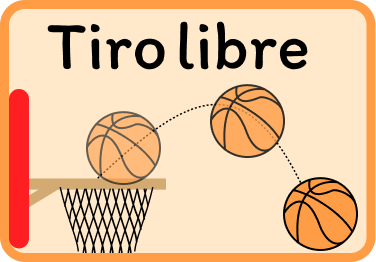
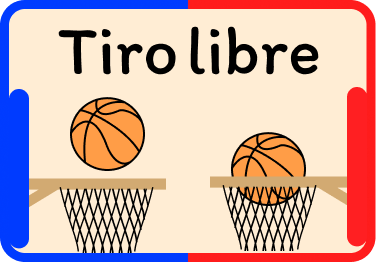
muchas cosasss. pude hacer que el buscador fuuncione x fin (gracias clase de front). portadas re cuteeeee.

diff --git a/comenzar/comenzar.js b/comenzar/comenzar.js
@@ -2,16 +2,11 @@ let jugadorSeleccionado1 = null;
 let jugadorSeleccionado2 = null;
 
 
-
-
 document.querySelectorAll(".btn-cerrar-popup").forEach(boton => {
     boton.addEventListener("click", () => {
         boton.closest("#elegir-usuarios, #CrearUsuario1, #CrearUsuario2, #Tutorial, #video-tutorial, #IDUsuario").style.display = "none";
     });
 });
-
-
-
 
 document.querySelectorAll("#btn-cerrar-popup-usuarios-jugadores, #btn-cerrar-popup-tutorial, #btn-cerrar-popup-video-tutorial").forEach(boton => {
     boton.addEventListener("click", () => {
@@ -22,7 +17,6 @@ document.querySelectorAll("#btn-cerrar-popup-usuarios-jugadores, #btn-cerrar-pop
     });
 });
 
-
 document.querySelectorAll("#btn-cerrar-popup-usuario1, #btn-cerrar-popup-usuario2").forEach(boton => {
     boton.addEventListener("click", () => {
         document.getElementById("elegir-usuarios").style.display = "flex";
@@ -30,7 +24,6 @@ document.querySelectorAll("#btn-cerrar-popup-usuario1, #btn-cerrar-popup-usuario
         document.getElementById("CrearUsuario2").style.display = "none";
     });
 });
-
 
 document.getElementById("btn-cerrar-popup-id-usuario").addEventListener("click", () => {
     document.getElementById("IDUsuario").style.display = "none";
@@ -40,7 +33,6 @@ document.getElementById("btn-cerrar-popup-id-usuario").addEventListener("click",
 
 
 });
-
 
 document.getElementById("btn-sin-cuenta").addEventListener("click", () => {
 
@@ -62,20 +54,13 @@ document.getElementById("btn-sin-cuenta").addEventListener("click", () => {
 
 document.getElementById("btn-con-cuenta").addEventListener("click", () => {
 
-
     document.getElementById("elegir-usuarios").style.display = "flex";
     document.getElementById("contenedor-comenzar").style.display = "none";
 
-
     document.getElementById("conejo-colgando").style.display = "none";
 
-
     document.querySelectorAll('.jugador-item').forEach(function (elemento) {
-        elemento.classList.remove('seleccionado');
-
-
-    });
-
+        elemento.classList.remove('seleccionado');    });
 
     jugadorSeleccionado1 = null
     jugadorSeleccionado2 = null
@@ -125,42 +110,31 @@ document.getElementById("btnCrearJugador2").addEventListener("click", () => {
 document.querySelectorAll("#btn-jugar1, #btn-jugar2").forEach(boton => {
     boton.addEventListener("click", () => {
 
-
         let nombreIngresado;
         let IDIngresado;
-
 
         if (boton.id === "btn-jugar1") {
             nombreIngresado = document.getElementById("nombre-usuario-jugador1");
             IDIngresado = document.getElementById("ID-usuario-jugador1");
 
-
         }
-
 
         else {
             nombreIngresado = document.getElementById("nombre-usuario-jugador2");
             IDIngresado = document.getElementById("ID-usuario-jugador2");
 
-
         }
-
 
         const nombre = nombreIngresado.value.trim();
         const idUsuario = IDIngresado.value.trim();
-
 
         nombreIngresado.classList.remove("input-error");
         IDIngresado.classList.remove("input-error");
 
 
 
-
-
-
         if (nombre === "") {
             nombreIngresado.classList.add("input-error");
-
 
             if (boton.id === "btn-jugar1") {
                 document.getElementById("completar-nombre-usuario1").classList.add("visible");
@@ -170,9 +144,6 @@ document.querySelectorAll("#btn-jugar1, #btn-jugar2").forEach(boton => {
                 document.getElementById("completar-nombre-usuario2").classList.add("visible");
                 document.getElementById("completar-nombre-usuario1").classList.remove("visible");
             }
-
-
-
 
         }
 
@@ -190,14 +161,11 @@ document.querySelectorAll("#btn-jugar1, #btn-jugar2").forEach(boton => {
                 document.getElementById("completar-id-usuario1").classList.remove("visible");
             }
 
-
         }
-
 
         if (nombre === "" || idUsuario === "") {
             return;
         }
-
 
         document.getElementById("elegir-usuarios").style.display = "flex";
         document.getElementById("CrearUsuario1").style.display = "none";
@@ -218,12 +186,12 @@ document.querySelectorAll("#btn-jugar1, #btn-jugar2").forEach(boton => {
             jugoCon: "---",
             id: idUsuario,
             animal: animal,
-            color: color
+            color: color,
+            progreso: [],
+            actividad: []
         });
 
         guardarJugadores();
-
-
 
 
         if (boton.id === "btn-jugar1") {
@@ -254,9 +222,6 @@ function limpiarErrorCompletarNombre() {
 document.getElementById("nombre-usuario-jugador1").addEventListener("input", limpiarErrorCompletarNombre);
 document.getElementById("nombre-usuario-jugador2").addEventListener("input", limpiarErrorCompletarNombre);
 
-
-
-
 function limpiarErrorCompletarID() {
     document.getElementById("ID-usuario-jugador1").classList.remove("input-error");
     document.getElementById("ID-usuario-jugador2").classList.remove("input-error");
@@ -271,24 +236,12 @@ document.getElementById("ID-usuario-jugador1").addEventListener("input", limpiar
 document.getElementById("ID-usuario-jugador2").addEventListener("input", limpiarErrorCompletarID);
 
 
-
-
-
-
 document.getElementById("listos-para-tutorial").addEventListener("click", () => {
     document.getElementById("video-tutorial").style.display = "flex";
 
-
     document.getElementById("Tutorial").style.display = "none";
 
-
 });;
-
-
-
-
-
-
 
 
 let jugadorProceso = null;
@@ -310,9 +263,6 @@ function mostrarJugadores() {
 
 
     jugadores.forEach(jugador => {
-
-
-
 
         const elemento1 = document.createElement("div");
 

diff --git a/cuadricula/cuadricula.html b/cuadricula/cuadricula.html
@@ -30,11 +30,11 @@
             </svg>
         </a>
 
-        <h1 id="TituloJuegos">Juegos </h1>
+        <h1 id="TituloJuegos">Juegos</h1>
 
         <div class="grilla">
             <a class="juego-card" data-juego="Juego1" tabindex="0" href="../juegos/juego1/juego1.html">
-                <span class="juego-nombre">Burbujas</span>
+                <img src="../assets/portadas/burbujero.png" alt="Juego 1">
             </a>
 
             <a class="juego-card" data-juego="Juego2" tabindex="0" href="../juegos/juego2/juego2.html">
@@ -59,7 +59,7 @@
             </a>
 
             <a class="juego-card" data-juego="Juego7" tabindex="0" href="../juegos/juego7/juego7.html">
-                <img src="../assets/portadas/splash.png" alt="Juego 8">
+                <img src="../assets/portadas/splash.png" alt="Juego 7">
 
             </a>
 

diff --git a/terapeutas/terapeutas.js b/terapeutas/terapeutas.js
@@ -59,6 +59,20 @@ jugadores.forEach(jugador => {
     listaInformes.appendChild(elemento);
 });
 
+const buscador = document.getElementById("buscar-usuario");
+
+buscador.addEventListener("input", () => {
+    const texto = buscador.value.trim().toLowerCase();
+
+    const tarjetas = listaInformes.querySelectorAll(".usuario-item");
+
+    tarjetas.forEach(tarjeta => {
+        const nombre = tarjeta.querySelector(".nombre-usuario").textContent.trim().toLowerCase();
+    
+        tarjeta.style.display = nombre.includes(texto) ? "" : "none";
+    });
+});
+
 let graficoProgreso = null;
 
 function mostrarInforme(jugador) {

diff --git a/cuadricula/cuadricula.css b/cuadricula/cuadricula.css
@@ -15,7 +15,7 @@
 
  .grilla {
      display: grid;
-     grid-template-columns: repeat(3, minmax(0, 1fr));
+     grid-template-columns: repeat(2, minmax(0, 1fr));
      gap: clamp(16px, 4vw, 24px);
      width: min(90%, 1000px);
      margin: 0 auto;

diff --git a/terapeutas/terapeutas.html b/terapeutas/terapeutas.html
@@ -31,7 +31,6 @@
                 </svg>
             </a>
 
-
             <div id="contenedor-usuario-terapeuta">
                 <img id="icono-terapeutas" src="../assets/arriba-popups/icono-terapeutas.png">
 

diff --git a/terapeutas/terapeutas.css b/terapeutas/terapeutas.css
@@ -274,7 +274,7 @@
 .personaje-usuario img.conejo {
     width: 68px;
     transform: translateY(-14px);
-    margin-left: 6px;
+    margin-left: 6.5px;
 }
 
 .nombre-usuario {

diff --git a/juegos/juego1/juego1.css b/juegos/juego1/juego1.css
@@ -5,7 +5,7 @@
     height: 100vh;
     overflow: hidden;
 
-    background-color: #e2faff;
+    background-color: #F3EAFF;
 }
 
 .burbuja {
